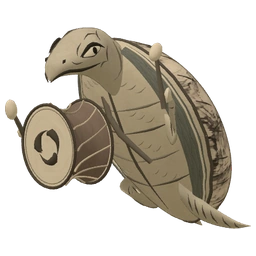
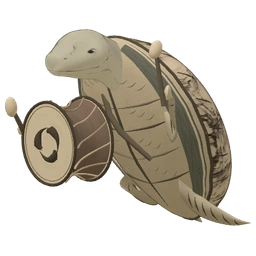
Redraw the Ryugu drummer’s eyes and bill in handscroll ink

Changed region(s): [[0.0, 0.0938, 0.9688, 0.9062], [0.0, 0.375, 0.0625, 0.4062], [0.5312, 0.3438, 0.5625, 0.375]]

diff --git a/two/ryugu-performers.js b/two/ryugu-performers.js
@@ -2,7 +2,8 @@ import * as THREE from './vendor/three.module.min.js';
 import { wrapDelta } from './terrain.js';
 import { SEA_ENSEMBLES, updateRyuguResident } from './ryugu-residents.js';
 import { InkForm, fin, pigment, INK, SOOT, PAPER, WARM, RED } from './ryugu-ink.js';
-import { skin, profile, brush, eye, membrane, pointCurve } from './ryugu-sculpt.js';
+import { brushWash } from './scroll-sculpt.js';
+import { skin, skinGeometry, profile, brush, eye, membrane, pointCurve } from './ryugu-sculpt.js';
 
 const {sin,cos,PI}=Math,tau=2*PI,ivory='#ebe3cc',moss='#c8c2a6',umber='#786e5a';
 const darker='#655e4f',wash='#b2aa95',indigo='#747770';
@@ -106,36 +107,46 @@ function bream() {
   }));
   return rigs;
 }
-// A hawksbill-like, hooked jaw over the pulled-in throat. The transition from
-// neck to crown and down over the beak is one skin with no head/neck seam.
+// The throat rises out of the collar into a broad cheek. A shallow stop at the
+// bridge and a short blunt cutting edge break the profile of the upper jaw.
 const turtleProfile=profile([
-  [-.21,-.07,-.423,.099,-.018],[-.11,.025,-.399,.148,-.007],[.015,.149,-.293,.149,.011],
-  [.132,.263,-.171,.139,.022],[.225,.337,-.067,.155,.032],[.353,.366,.031,.193,.045],
-  [.465,.330,.075,.187,.053],[.552,.284,.095,.153,.057],[.65,.241,.106,.095,.059],
-  [.704,.197,.089,.049,.06],[.722,.136,.085,.014,.06],[.724,.109,.103,.001,.06],
+  // z, crown, throat, half breadth, centreline offset
+  [-.21,-.066,-.42,.099,-.018],[-.105,.031,-.393,.139,-.005],
+  [.024,.147,-.277,.128,.012],[.143,.236,-.145,.126,.031],
+  [.229,.290,-.066,.154,.047],[.314,.336,-.018,.199,.057],
+  [.396,.347,.007,.214,.061],[.465,.334,.030,.190,.062],
+  [.523,.303,.049,.166,.063],[.581,.275,.066,.144,.067],
+  [.610,.266,.074,.132,.070],[.648,.259,.087,.111,.073],
+  [.674,.247,.097,.089,.075],[.690,.225,.108,.060,.076],
+  [.697,.196,.122,.034,.077],[.700,.153,.153,0,.077],
 ]);
-function turtlePoint(z,a,lift=0) {
-  const [top,bottom,width,dx]=turtleProfile(z),level=cos(a),side=sin(a);
-  return [dx+(width*(1+.13*level)+lift)*side,(top+bottom)/2+((top-bottom)/2+lift)*level,z];
-}
-function turtleHead(f) {
-  skin(f,43,36,(u,v)=>turtlePoint(lerp(-.21,.724,v),u*tau),moss,'paper',true,true);
-  for(const s of [-1,1]){
-    const on=(z,a,lift=.005)=>turtlePoint(z,a*s,lift);
-    eye(f,(u,v,lift)=>on(.457+.082*u,1.19-v*.43,lift),-1);
-    // The hooked upper bill sits visibly below the corner of the old man's grin.
-    brush(f,[[.382,1.89],[.445,2.02],[.54,2.12],[.63,1.94],[.695,1.98],[.722,2.40]]
-      .map(([z,a])=>on(z,a)),[.001,.008,.013,.012,.01,.002],INK);
-    brush(f,[on(.628,.82),on(.647,.94),on(.654,1.03)],[.002,.011,.0025],INK);
-    const plates=[[[.294,.42],[.339,.62],[.353,.94]],[[.339,.62],[.393,.46],[.446,.52]],
-      [[.479,.54],[.533,.69],[.556,.99]],[[.54,1.53],[.586,1.48],[.604,1.20]],
-      [[.30,1.18],[.332,1.48],[.317,1.79]],[[.326,1.81],[.361,1.87],[.371,2.12]]];
-    for(const path of plates)brush(f,path.map(([z,a])=>on(z,a)),[.001,.0055,.0015],darker);
-    for(const [i,z] of [-.035,.026,.090,.145].entries()){
-      const marks=[[z+.038,.84],[z+.013,1.31],[z+.021,1.87],[z+.068,2.46]];
-      brush(f,marks.map(([q,a])=>on(q,a)),[.001,.0065,.004,.0007],i===1?SOOT:'#87806b');
-    }
-  }
+
+function turtleHead() {
+  const geometry=skinGeometry(72,56,(u,v)=>{
+    const a=u*tau,side=sin(a),level=cos(a);
+    // More sections around the two ends keep the blunt muzzle smoothly rounded.
+    const along=(1-cos(PI*v))*.5,z=lerp(-.21,.70,along);
+    const [crown,throat,width,offset]=turtleProfile(z);
+    const sideAngle=Math.acos(level);
+    const socket=Math.exp(-(((z-.46)/.095)**2+((sideAngle-1.16)/.47)**2));
+    const jaw=Math.exp(-(((z-.56)/.135)**2+((sideAngle-1.91)/.15)**2));
+    const breadth=width*(1+.065*level+.063*socket-.024*jaw);
+    // Across the bill the upper and lower plates meet in a flatter edge.
+    // The cross-section becomes round again where the neck enters the collar.
+    const bill=THREE.MathUtils.smoothstep(z,.47,.66);
+    const faceSide=Math.sign(side)*Math.abs(side)**(1-.18*bill);
+    const faceLevel=Math.sign(level)*Math.abs(level)**(1-.17*bill);
+    const x=offset+breadth*faceSide;
+    const y=(crown+throat)*.5+(crown-throat)*.5*faceLevel;
+    // The lower cutting plate tucks just inside the upper one at the muzzle.
+    const jawZ=z-.27*width*bill*Math.max(0,-level);
+    return [x,y,jawZ,along,1-u];
+  },true,true);
+  const map=new THREE.TextureLoader().load(new URL('./assets/bestiary/ryugu-turtle-face.webp',import.meta.url).href);
+  map.colorSpace=THREE.SRGBColorSpace;
+  map.anisotropy=8;
+  const material=brushWash(new THREE.MeshLambertMaterial({map}),.63);
+  return {name:'turtle-head',pivot:[0,1.31,.12],geometry,material};
 }
 
 // Both sides of the breastplate meet the same upturned rim. The shell swells
@@ -224,7 +235,7 @@ function flipper(f,s,back=false){
   }
 }
 function turtle() {
-  const rigs=[part('turtle-shell',[0,.85,-.14],turtleShell),part('turtle-head',[0,1.31,.12],turtleHead)];
+  const rigs=[part('turtle-shell',[0,.85,-.14],turtleShell),turtleHead()];
   for(const s of [-1,1]){
     rigs.push(part(s<0?'turtle-left':'turtle-right',[s*.34,1.02,.084],f=>{
       flipper(f,s);
@@ -429,7 +440,9 @@ function acknowledgement(){
   });
 }
 export function seaPortrait(type) {
-  return new URL(`./assets/bestiary/ryugu-${type}.webp`,import.meta.url).href;
+  const portrait=new URL(`./assets/bestiary/ryugu-${type}.webp`,import.meta.url);
+  if(type==='seaTurtle')portrait.search='v=ink-face-1';
+  return portrait.href;
 }
 const rotationTo=(from,to)=>new THREE.Quaternion().setFromUnitVectors(
   new THREE.Vector3(...from).normalize(),new THREE.Vector3(...to).normalize());

diff --git a/two/index.html b/two/index.html
@@ -29,7 +29,7 @@
           "./ambient-contacts.js": "./ambient-contacts.js?v=roadside-1",
           "./city-walkers.js": "./city-walkers.js?v=ryugu-brush-1",
           "./pickup-contacts.js": "./pickup-contacts.js?v=roadside-1",
-          "./ryugu-sculpt.js": "./ryugu-sculpt.js?v=ryugu-brush-1",
+          "./ryugu-sculpt.js": "./ryugu-sculpt.js?v=ryugu-turtle-face-1",
           "./traveller-positions.js": "./traveller-positions.js?v=ryugu-brush-1",
           "./turtle-trail.js": "./turtle-trail.js?v=ryugu-brush-1",
           "./actors.js": "./actors.js?v=roadside-1",
@@ -103,7 +103,7 @@
           "./pilgrimage-pigment.js": "./pilgrimage-pigment.js?v=4.1",
           "./ryugu-architecture.js": "./ryugu-architecture.js?v=4.1",
           "./ryugu-ink.js": "./ryugu-ink.js?v=ryugu-brush-1",
-          "./ryugu-performers.js": "./ryugu-performers.js?v=ryugu-brush-1",
+          "./ryugu-performers.js": "./ryugu-performers.js?v=ryugu-turtle-face-1",
           "./ryugu-residents.js": "./ryugu-residents.js?v=ryugu-brush-1",
           "./scroll-encounters.js": "./scroll-encounters.js?v=5.0",
           "./scroll-paper.js": "./scroll-paper.js?v=peach-gorge-1",

diff --git a/two/ryugu-sculpt.js b/two/ryugu-sculpt.js
@@ -4,7 +4,7 @@ import * as T from './vendor/three.module.min.js';
 import {surface} from './ryugu-ink.js';
 
 const tau=2*Math.PI;
-export function skin(form,rows,columns,sample,tint,tile='paper',reverse=false,closed=false) {
+export function skinGeometry(rows,columns,sample,reverse=false,closed=false) {
   const pos=[],uv=[],index=[];
   for(let j=0;j<=rows;j++)for(let i=0;i<=columns;i++){
     const u=i/columns,v=j/rows,[x,y,z,s=u,t=v]=sample(u,v);
@@ -24,7 +24,11 @@ export function skin(form,rows,columns,sample,tint,tile='paper',reverse=false,cl
       n.setXYZ(lo,a.x,a.y,a.z);n.setXYZ(hi,a.x,a.y,a.z);
     }
   }
-  form.draw(g,[0,0,0],[1,1,1],tint,[0,0,0],tile);
+  return g;
+}
+
+export function skin(form,rows,columns,sample,tint,tile='paper',reverse=false,closed=false) {
+  form.draw(skinGeometry(rows,columns,sample,reverse,closed),[0,0,0],[1,1,1],tint,[0,0,0],tile);
 }
 
 // Monotone cubic section interpolation preserves a hooked beak or a narrow
